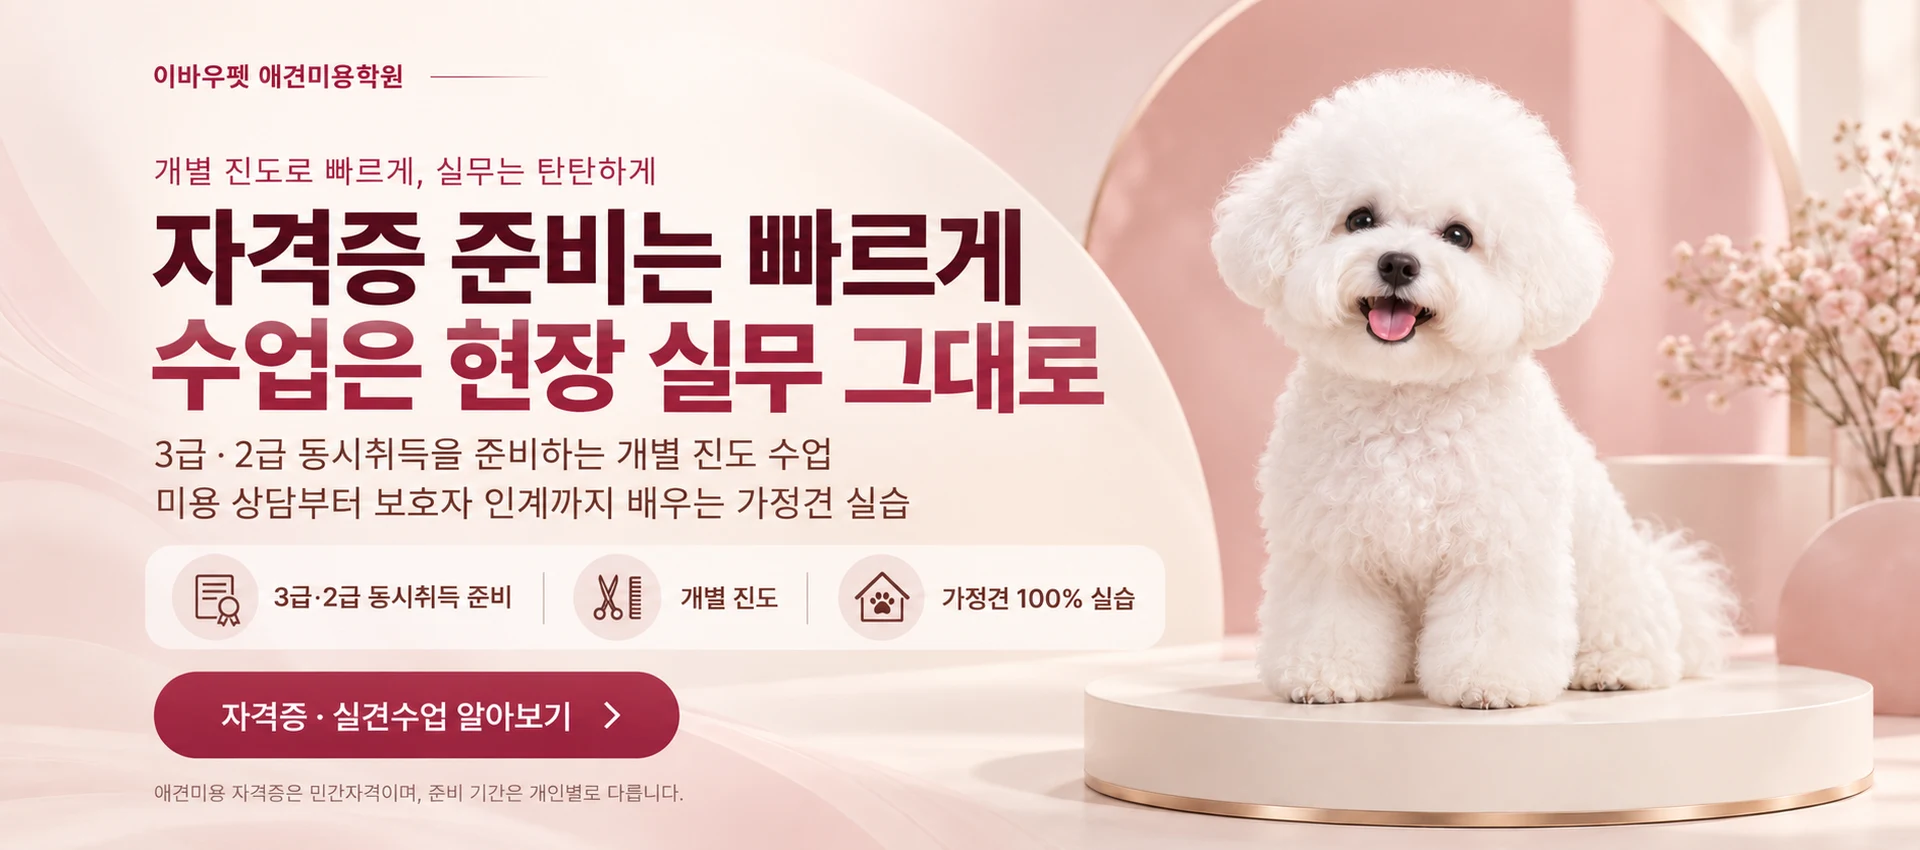
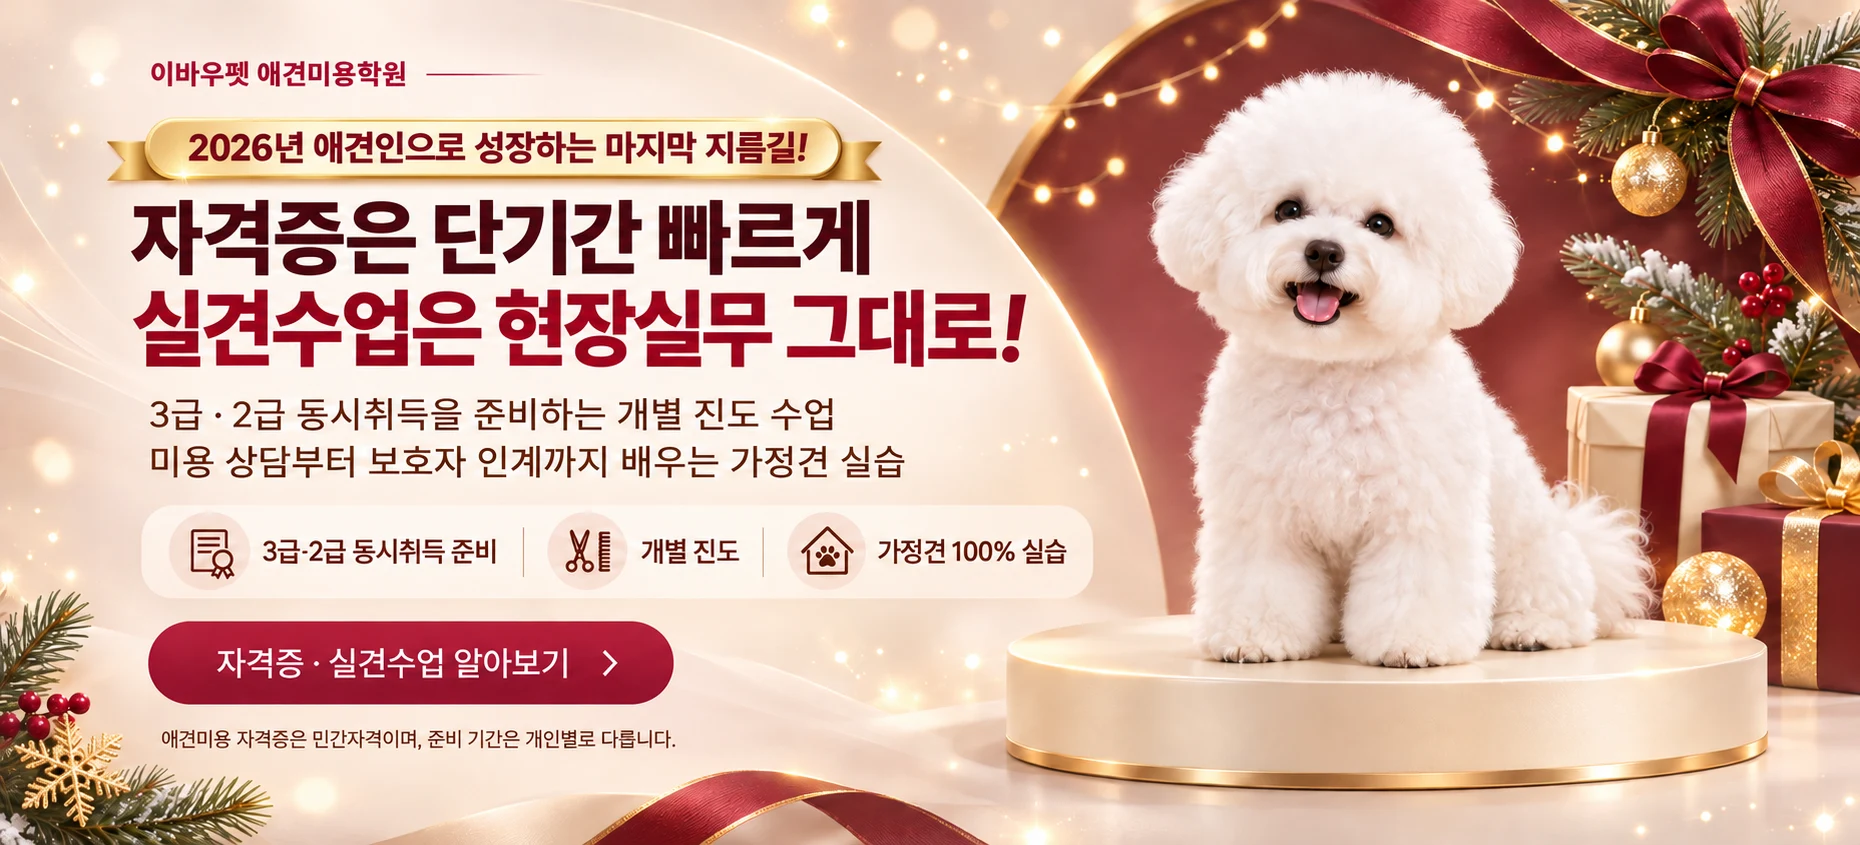
feat: 겨울 시즌 이미지 교체 — 메인 배너·장학지원·커리큘럼 로드맵

diff --git a/app/globals.css b/app/globals.css
@@ -144,7 +144,7 @@ h1,h2,h3{line-height:1.3; margin:0 0 12px}
    이바우펫(evaw-pet-grooming.co.kr) 참고: PC에서 본문처럼 좌우 여백을 줘서 가독성 확보 —
    나머지 섹션(.wrap)과 같은 폭으로 맞춰서 1160px 넘는 화면에서만 자연스럽게 여백 생김. */
 .hero{position:relative; max-width:var(--wrap); margin:0 auto; padding:0}
-.hero-carousel{position:relative; overflow:hidden; border-radius:var(--radius); aspect-ratio:1920/850; min-height:220px; background:var(--surface-strong)}
+.hero-carousel{position:relative; overflow:hidden; border-radius:var(--radius); aspect-ratio:1860/845; min-height:220px; background:var(--surface-strong)}
 @keyframes heroFadeIn{from{opacity:0} to{opacity:1}}
 .hero-img{width:100%; height:100%; object-fit:cover; display:block}
 .hero-img.mo{display:none}
@@ -194,6 +194,8 @@ h1,h2,h3{line-height:1.3; margin:0 0 12px}
 .modal-panel.hg-detail-panel{max-width:600px; padding:0; max-height:92vh}
 .hg-detail-panel > img{display:block; width:100%; height:auto}
 .hg-detail-close{position:sticky; top:8px; float:right; margin:8px 8px -48px 0; z-index:1; width:40px; height:40px; border-radius:var(--radius-full); background:rgba(255,255,255,.9); color:var(--ink)}
+.curriculum-roadmap{display:block; max-width:560px; margin:0 auto}
+.curriculum-roadmap img{display:block; width:100%; height:auto; border-radius:var(--radius); box-shadow:var(--shadow-1)}
 .promo-thumbs{display:grid; grid-template-columns:1fr 1fr; gap:24px; max-width:788px; margin:48px auto 0}
 .promo-thumbs img{display:block; width:100%; height:auto; border-radius:var(--radius); box-shadow:var(--shadow-1); transition:transform .2s}
 .promo-thumbs a:hover img{transform:translateY(-4px)}
@@ -629,7 +631,7 @@ main section:not(.hero).in-view{opacity:1; transform:none}
   .hero-img.pc{display:none}
   .hero-img.mo{display:block}
   /* 2026-10-07: 모바일에서도 메인 배너 노출(사용자 요청) — 배너에 글자가 들어 있어 잘리지 않게 원본 비율 그대로 전체 표시 */
-  .hero-carousel{aspect-ratio:1920/850; height:auto; min-height:0; border-radius:0}
+  .hero-carousel{aspect-ratio:1860/845; height:auto; min-height:0; border-radius:0}
 
 }
 @media (max-width:900px){

diff --git a/app/page.tsx b/app/page.tsx
@@ -1,5 +1,4 @@
 import Link from "next/link";
-import CourseCompactList from "@/components/CourseCompactList";
 import ConsultForm from "@/components/ConsultForm";
 import ConsultCtaButton from "@/components/ConsultCtaButton";
 import HeroCarousel from "@/components/HeroCarousel";
@@ -139,10 +138,14 @@ export default function HomePage() {
           리스트로 변경, 클릭 시 상세 모달(CoursePreviewModal) */}
       <section id="curriculum" className="curriculum">
         <div className="wrap">
-          <span className="sec-tag">📚 커리큘럼</span>
-          <h2 className="sec-title">내 상황에 맞춰 진행하는 커리큘럼</h2>
-          <CourseCompactList />
-          <p className="note">※ 위 과정 구성은 초안 예시입니다. 실제 개설 과정명·커리큘럼은 확정되는 대로 교체합니다.</p>
+          {/* 2026-11-04: 목록(CourseCompactList) → 겨울 로드맵 이미지 1장(제목·초안 안내문 포함). 누르면 과정 페이지 */}
+          <h2 className="sr-only">내 상황에 맞춰 진행하는 커리큘럼</h2>
+          <Link href="/curriculum" className="curriculum-roadmap">
+            <img
+              src="/images/curriculum-roadmap.webp"
+              alt="내 상황에 맞춰 진행하는 커리큘럼 — 01 기초과정(입문), 02 자격증 취득반(3급·2급), 03 실견 심화반(실습), 04 취업·창업반, 05 종합·심화반(추천), 06 스페셜 특강. 위 과정 구성은 초안 예시입니다."
+            />
+          </Link>
         </div>
       </section>
 

diff --git a/components/HeroCarousel.tsx b/components/HeroCarousel.tsx
@@ -1,6 +1,6 @@
 import Link from "next/link";
 
-// 메인 배너 — 2026-10-07 사용자 지시로 슬라이드 6장 → 배너 1장 고정(자격증·실견수업 배너, 1920×850).
+// 메인 배너 — 2026-10-07 사용자 지시로 슬라이드 6장 → 배너 1장 고정(자격증·실견수업 배너, 2026-11-04 겨울 배너 1860×845로 교체).
 // 모바일도 배너 원본 비율 그대로 노출(globals.css 참고).
 // ponytail: 배너가 다시 여러 장이 되면 git 이력의 Swiper 버전(ead4642)을 되살리면 됨.
 export default function HeroCarousel() {
